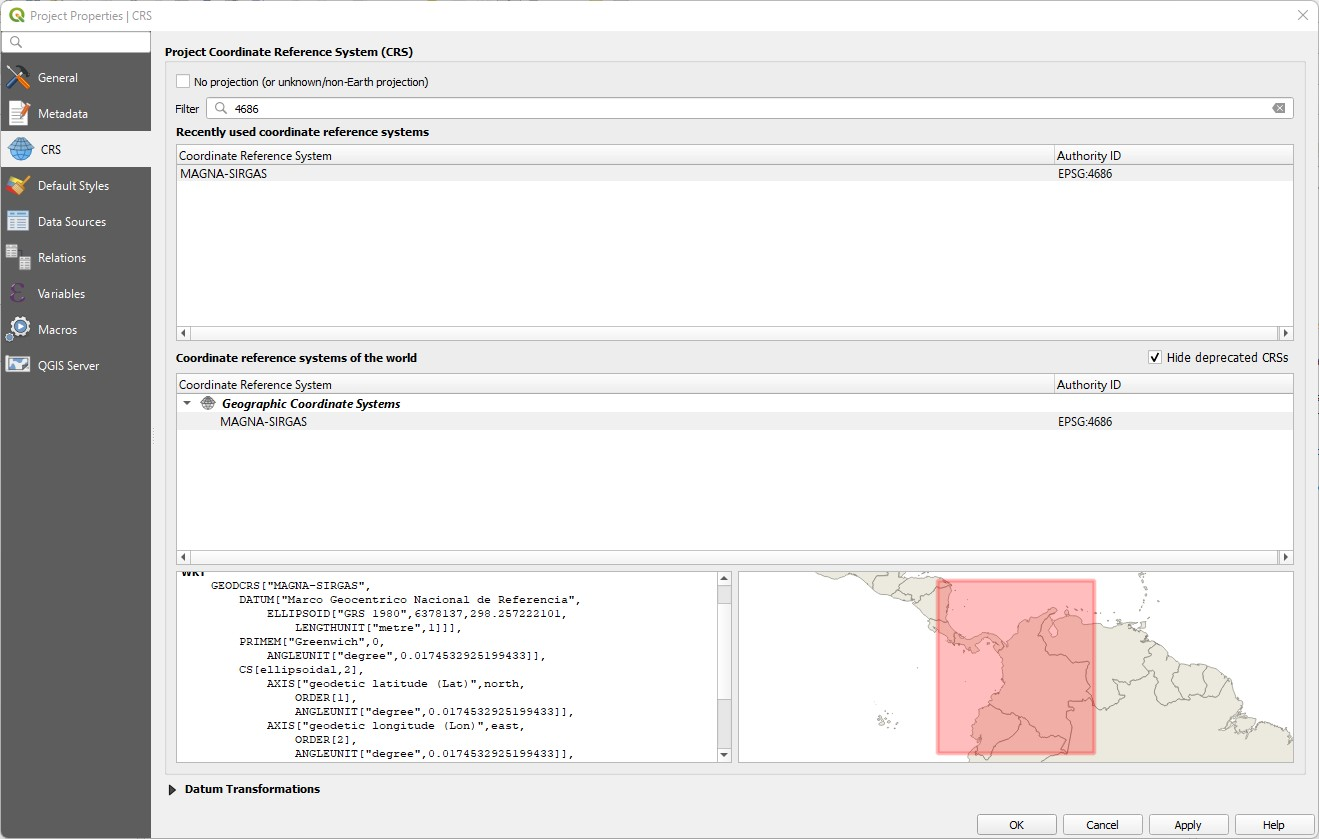
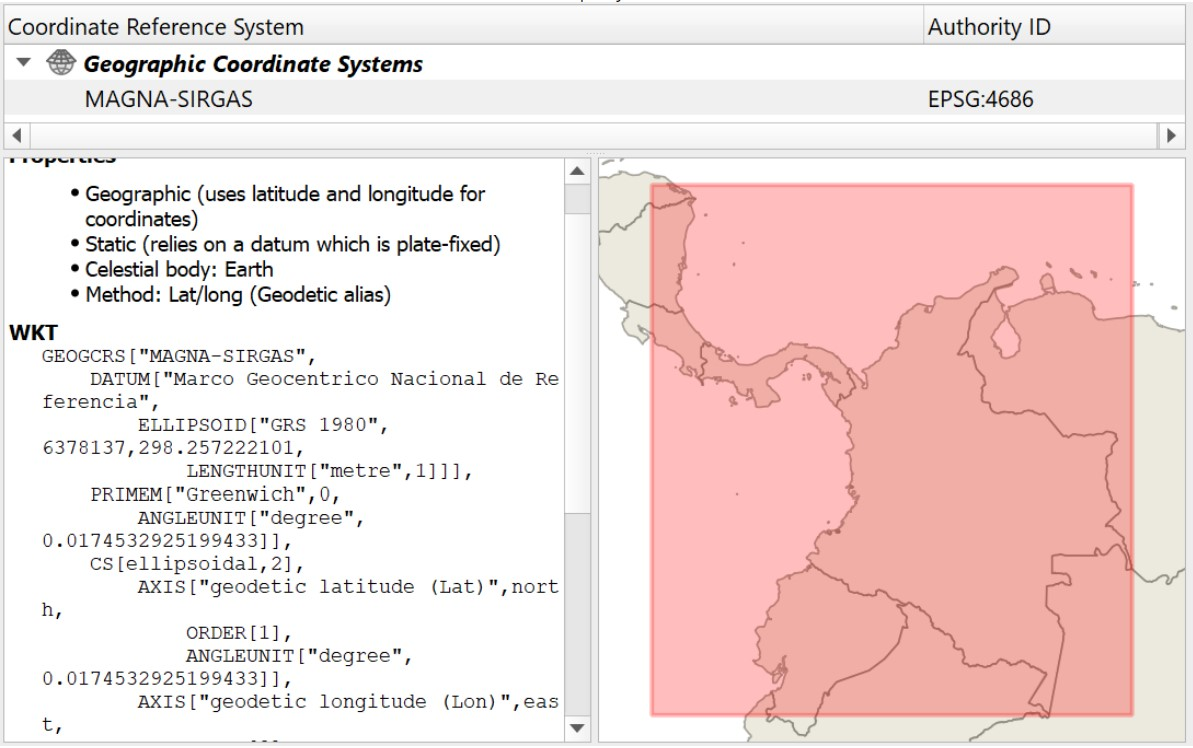
Update Section 1

diff --git a/Contenido/1.SIG/Fundamentos.md b/Contenido/1.SIG/Fundamentos.md
@@ -116,7 +116,7 @@ La utilización del sistema **MAGNA-SIRGAS** está directamente relacionada con 
 
 <div align="center">
 <br>
-<img alt="MOHI" src=".img/MAGNA-SIRGAS.jpg" width="1000px"><br>
+<img alt="MOHI" src=".img/MAGNA-SIRGAS.jpg" width="800px"><br>
 </div>
 
 
